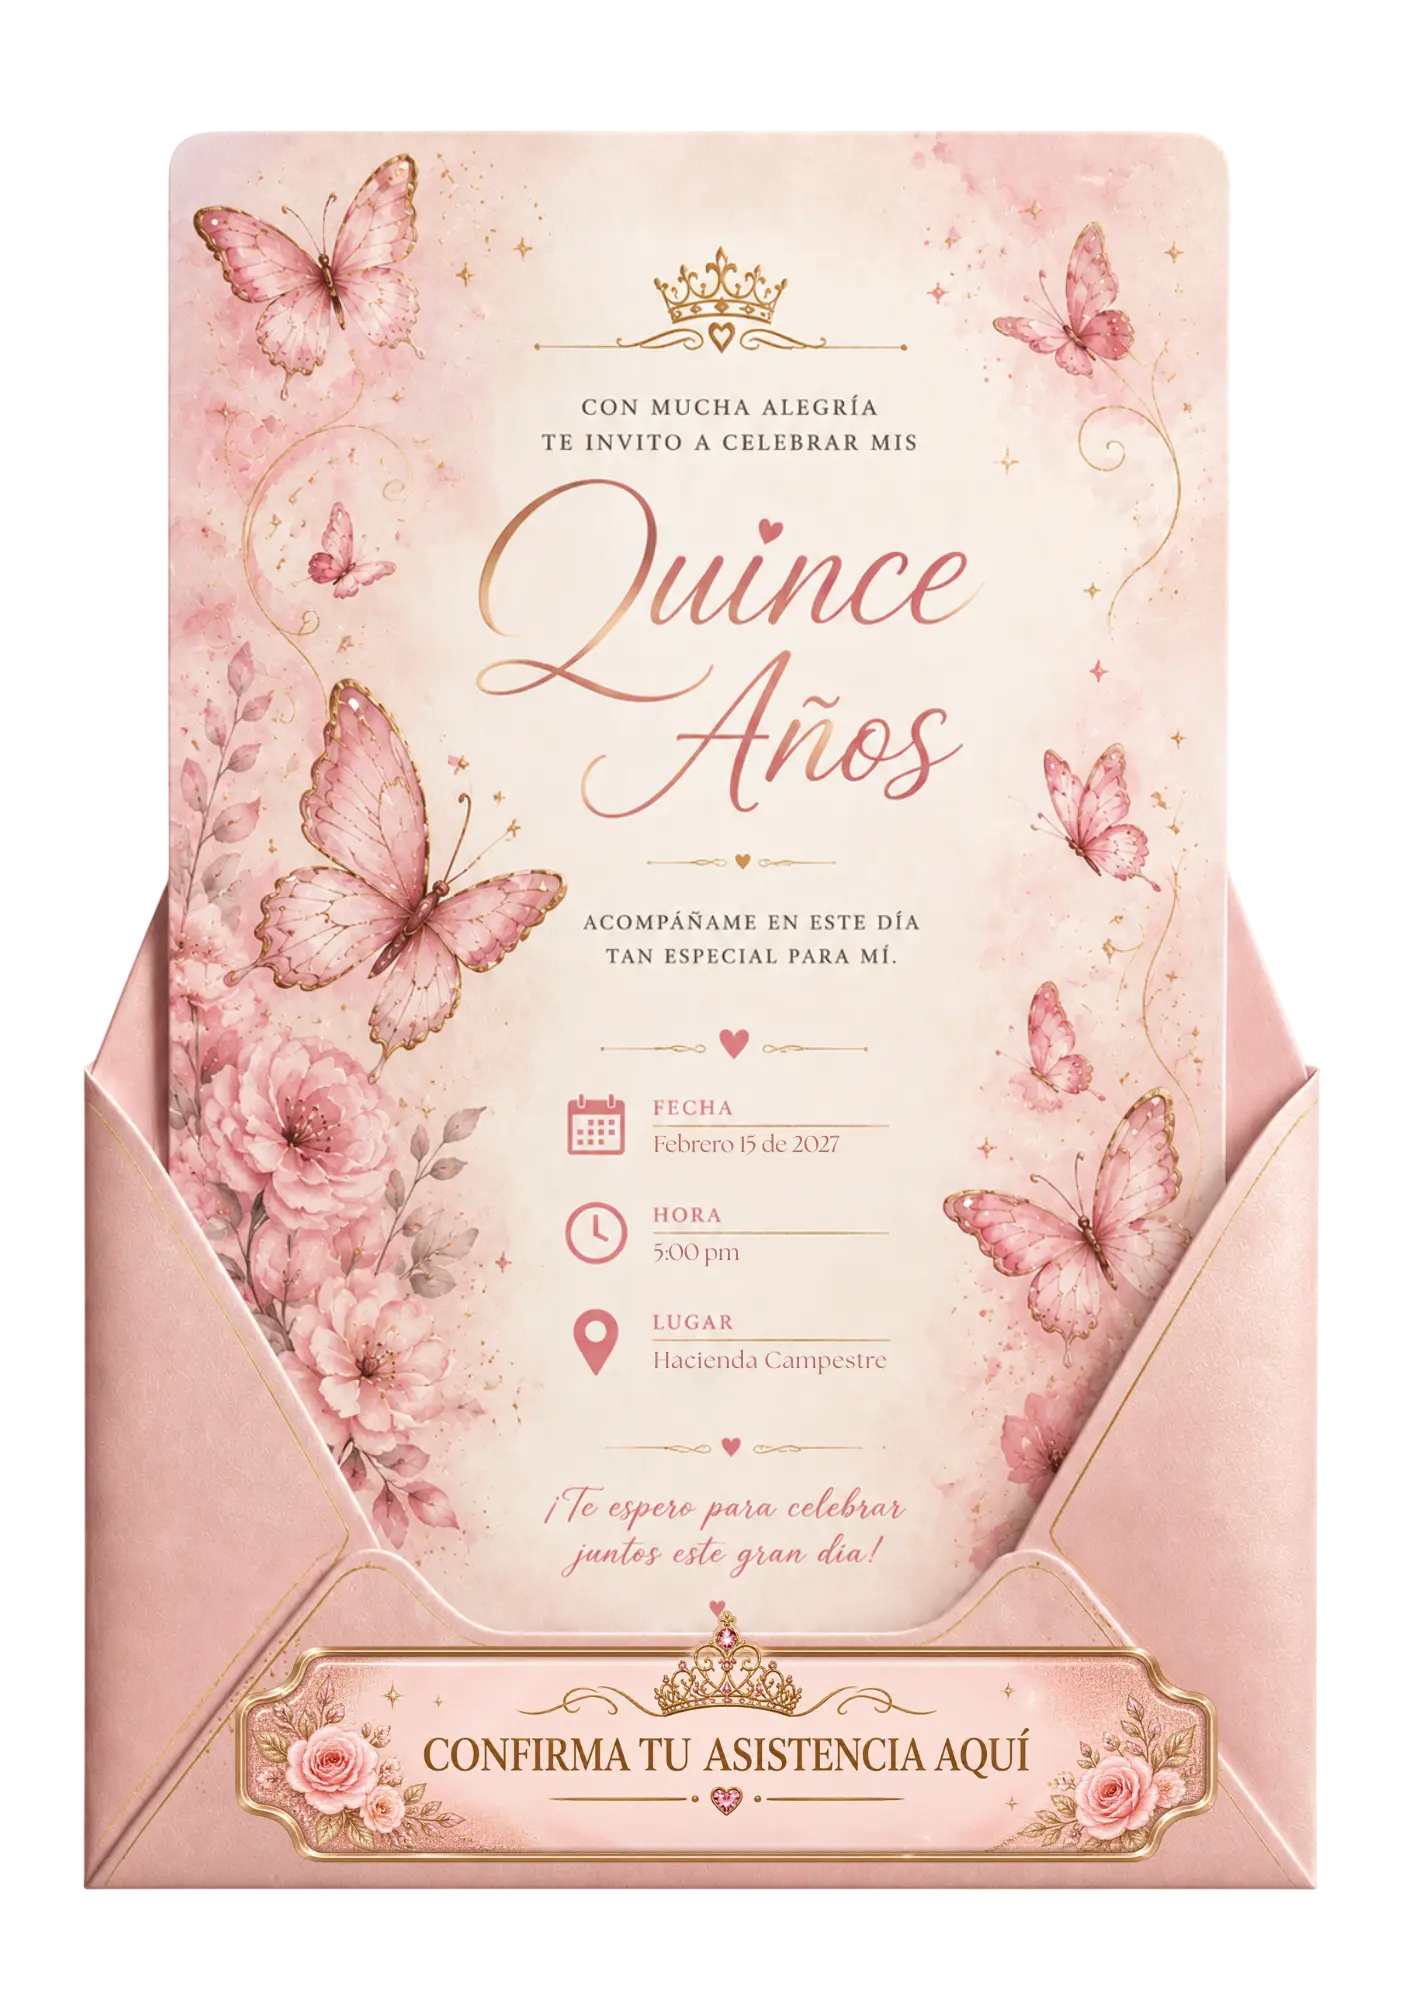
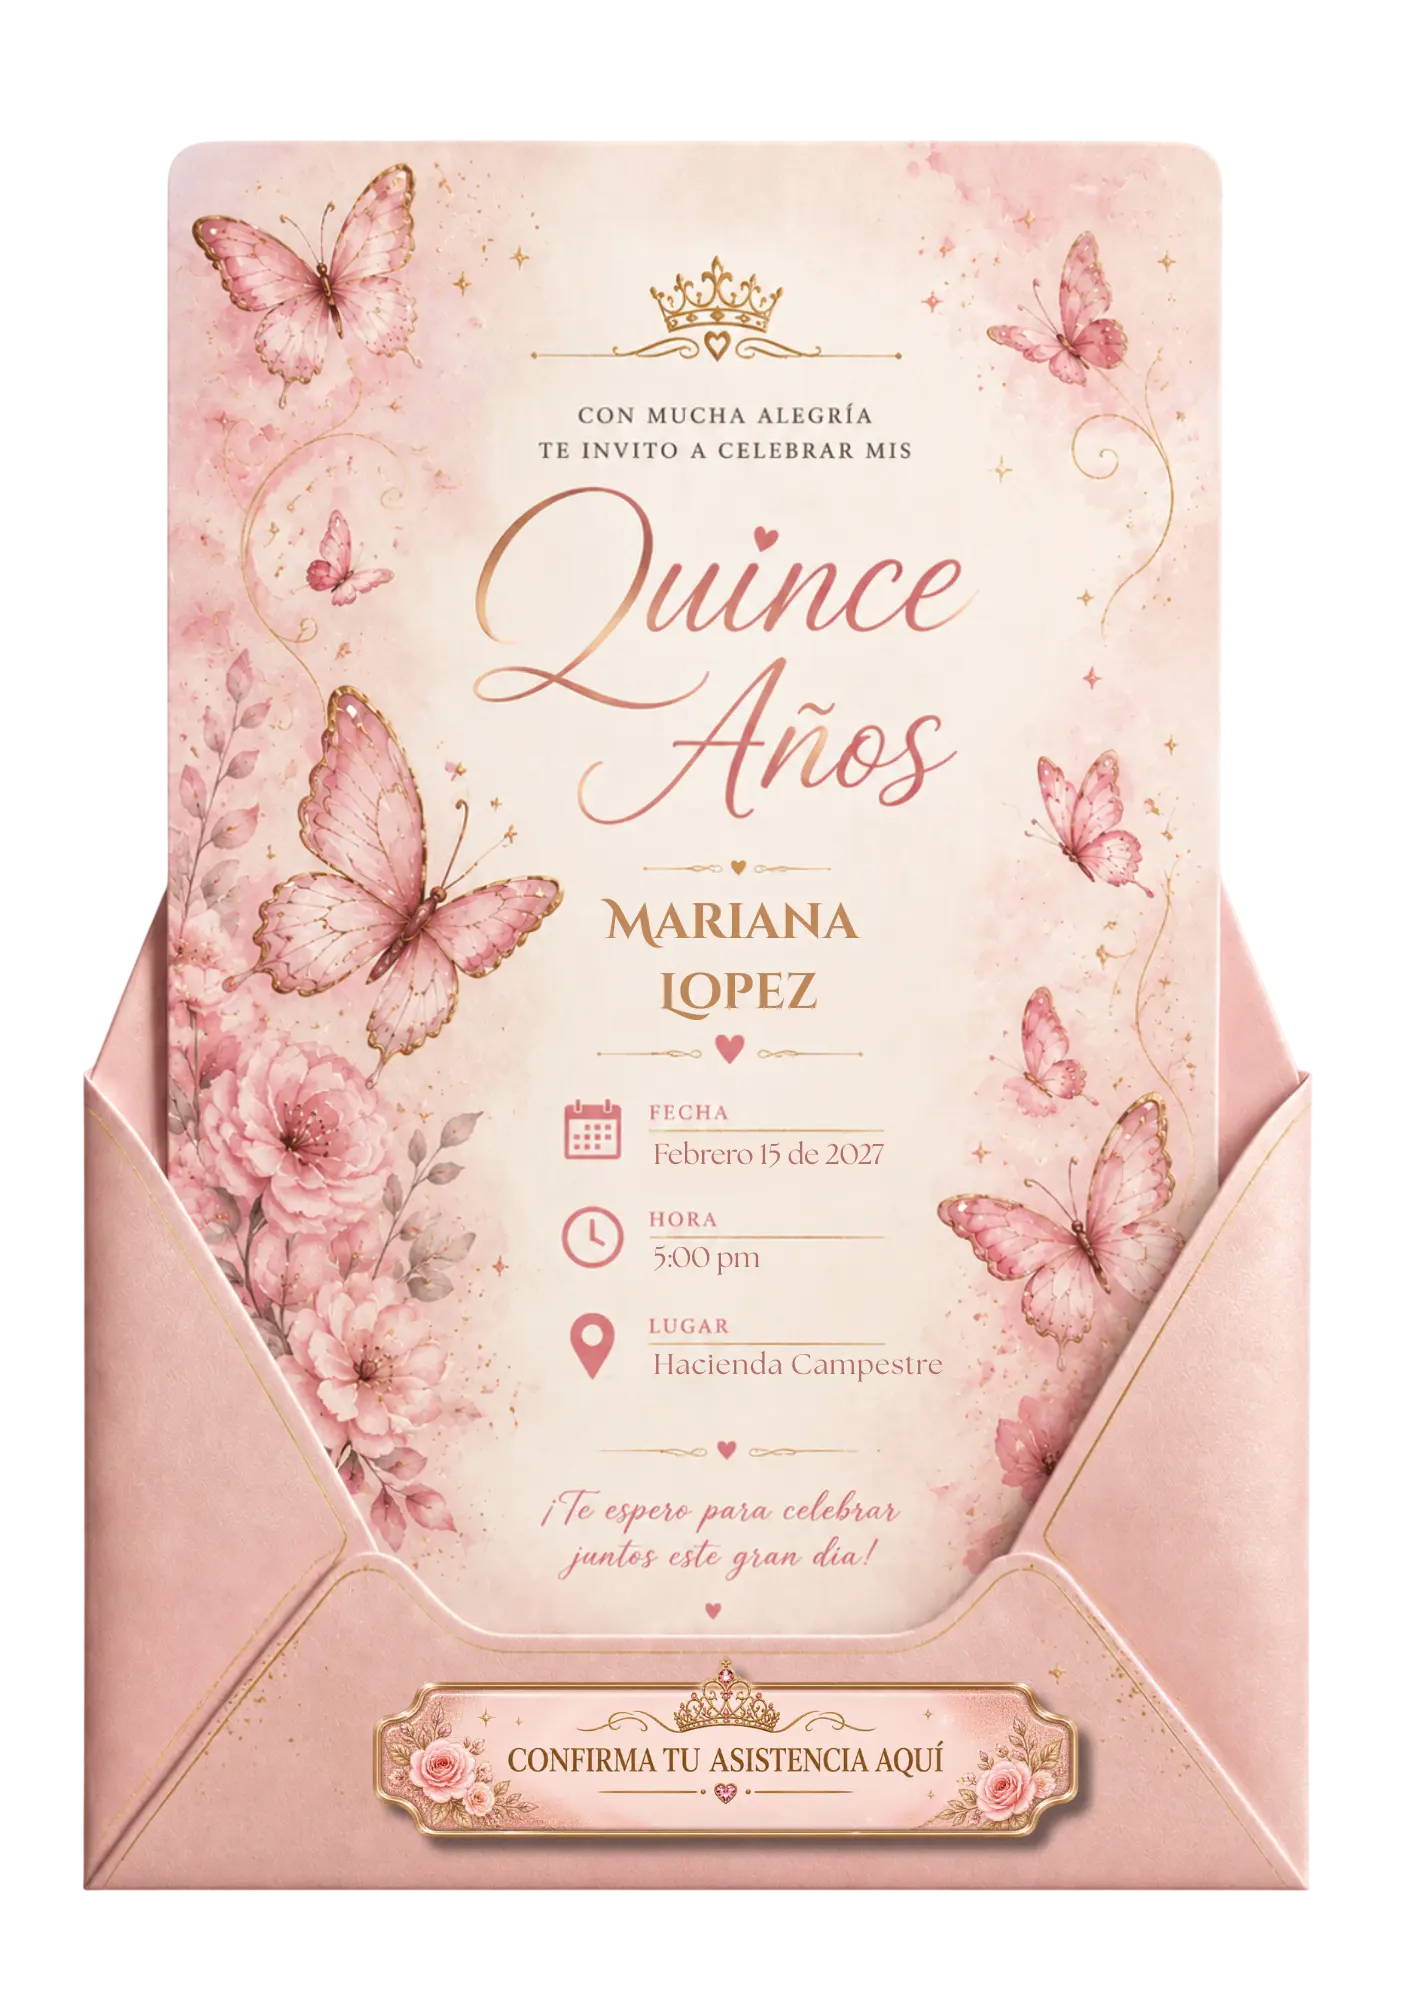
sdfsf

Changed region(s): [[0.0934, 0.062, 0.9335, 0.961], [0.0622, 0.527, 0.0934, 0.558]]

diff --git a/src/data/colombia.ts b/src/data/colombia.ts
@@ -62,6 +62,15 @@ export const colombiaInvitations: Invitation[] = [
     keywords: ["azul", "serenidad", "quinceañera"]
   },
   {
+    title: "Golden Elegance",
+    category: "Quince Años",
+    country: "co",
+    price: "$49",
+    closedImage: "/Golden Elegance close.webp",
+    openImage: "/Golden Elegance open.webp",
+    keywords: ["dorado", "elegancia", "quinceañera"]
+  },
+  {
     title: "Ivory Bloom",
     category: "Quince Años",
     country: "co",

diff --git a/src/data/usa.ts b/src/data/usa.ts
@@ -65,6 +65,15 @@ export const usaInvitations: Invitation[] = [
     keywords: ["azul", "serenidad", "quinceañera"]
   },
   {
+    title: "Golden Elegance",
+    category: "Quinceañera",
+    country: "us",
+    price: "$49",
+    closedImage: "/Golden Elegance close.webp",
+    openImage: "/Golden Elegance open ENG.webp",
+    keywords: ["dorado", "elegancia", "quinceañera"]
+  },
+  {
     title: "Ivory Bloom",
     category: "Quinceañera",
     country: "us",

diff --git a/src/data/peru.ts b/src/data/peru.ts
@@ -62,6 +62,15 @@ export const peruInvitations: Invitation[] = [
     keywords: ["azul", "serenidad", "quinceañera"]
   },
   {
+    title: "Golden Elegance",
+    category: "Quince Años",
+    country: "pe",
+    price: "$49",
+    closedImage: "/Golden Elegance close.webp",
+    openImage: "/Golden Elegance open.webp",
+    keywords: ["dorado", "elegancia", "quinceañera"]
+  },
+  {
     title: "Ivory Bloom",
     category: "Quince Años",
     country: "pe",
